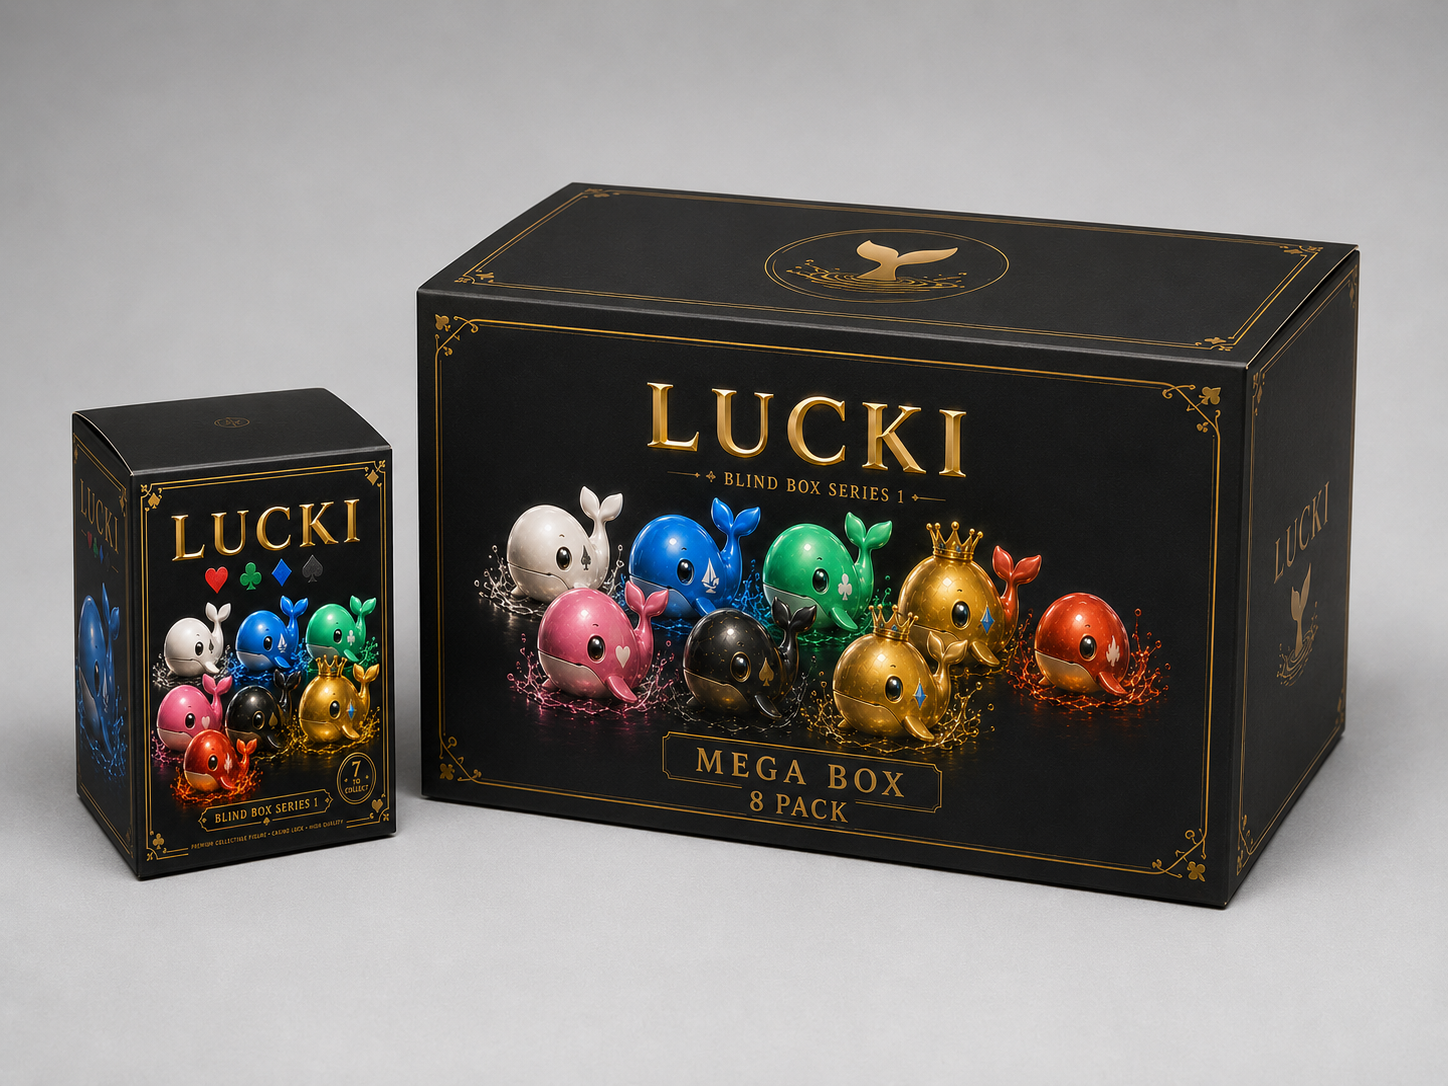
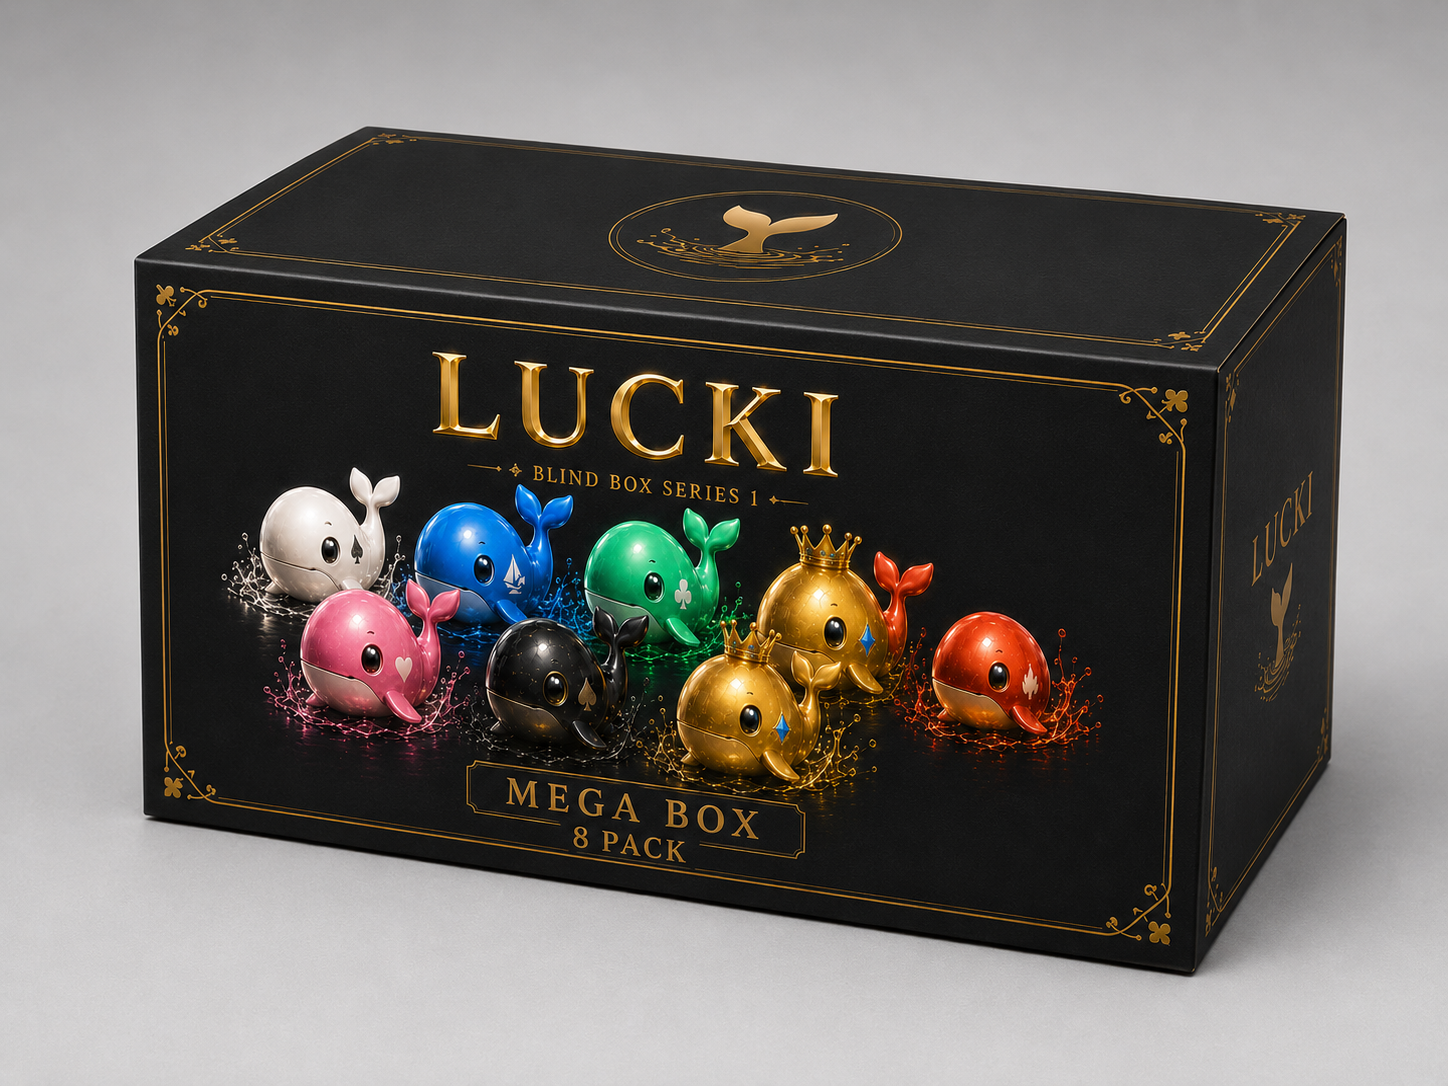
Swap in new Mega Box render and fit wide product images
Use object-fit: contain so the landscape Mega Box shot shows in full
on the wash; square renders still fill their frames.

diff --git a/src/components/FeaturedCollection.css b/src/components/FeaturedCollection.css
@@ -64,11 +64,12 @@
 .product__media .orb__halo {
   display: none;
 }
-/* A product photo fills the whole media box, same as the whale render. */
+/* A product photo sits inside the media box fully — square renders fill
+   it exactly; wider shots (e.g. the Mega Box) letterbox onto the wash. */
 .product__image {
   width: 100%;
   height: 100%;
-  object-fit: cover;
+  object-fit: contain;
 }
 
 .product__body {